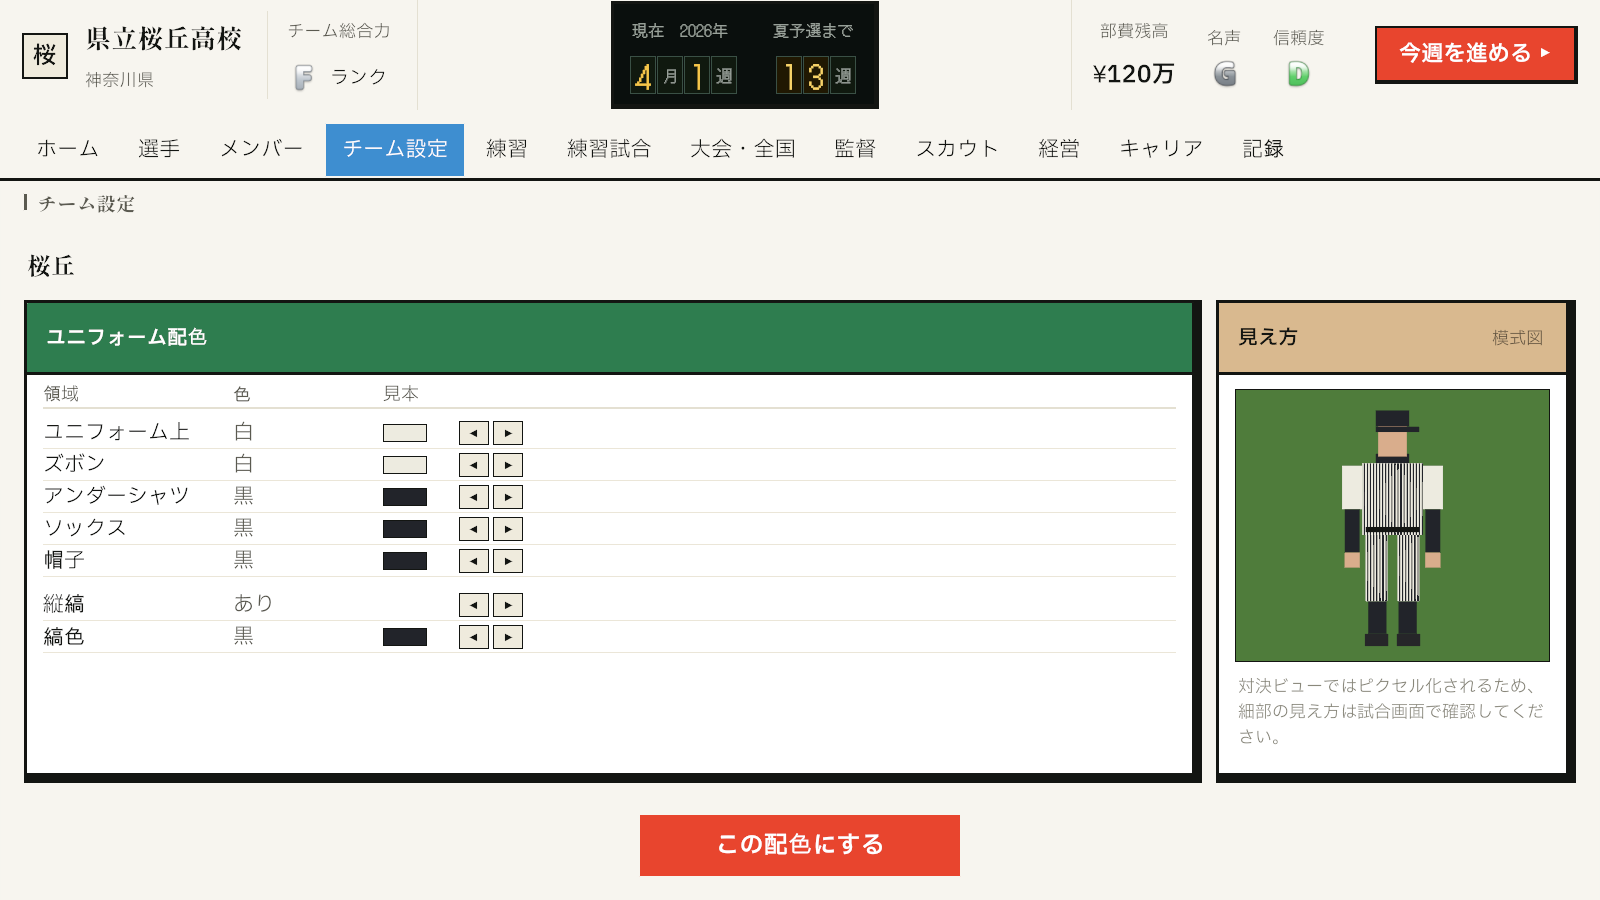
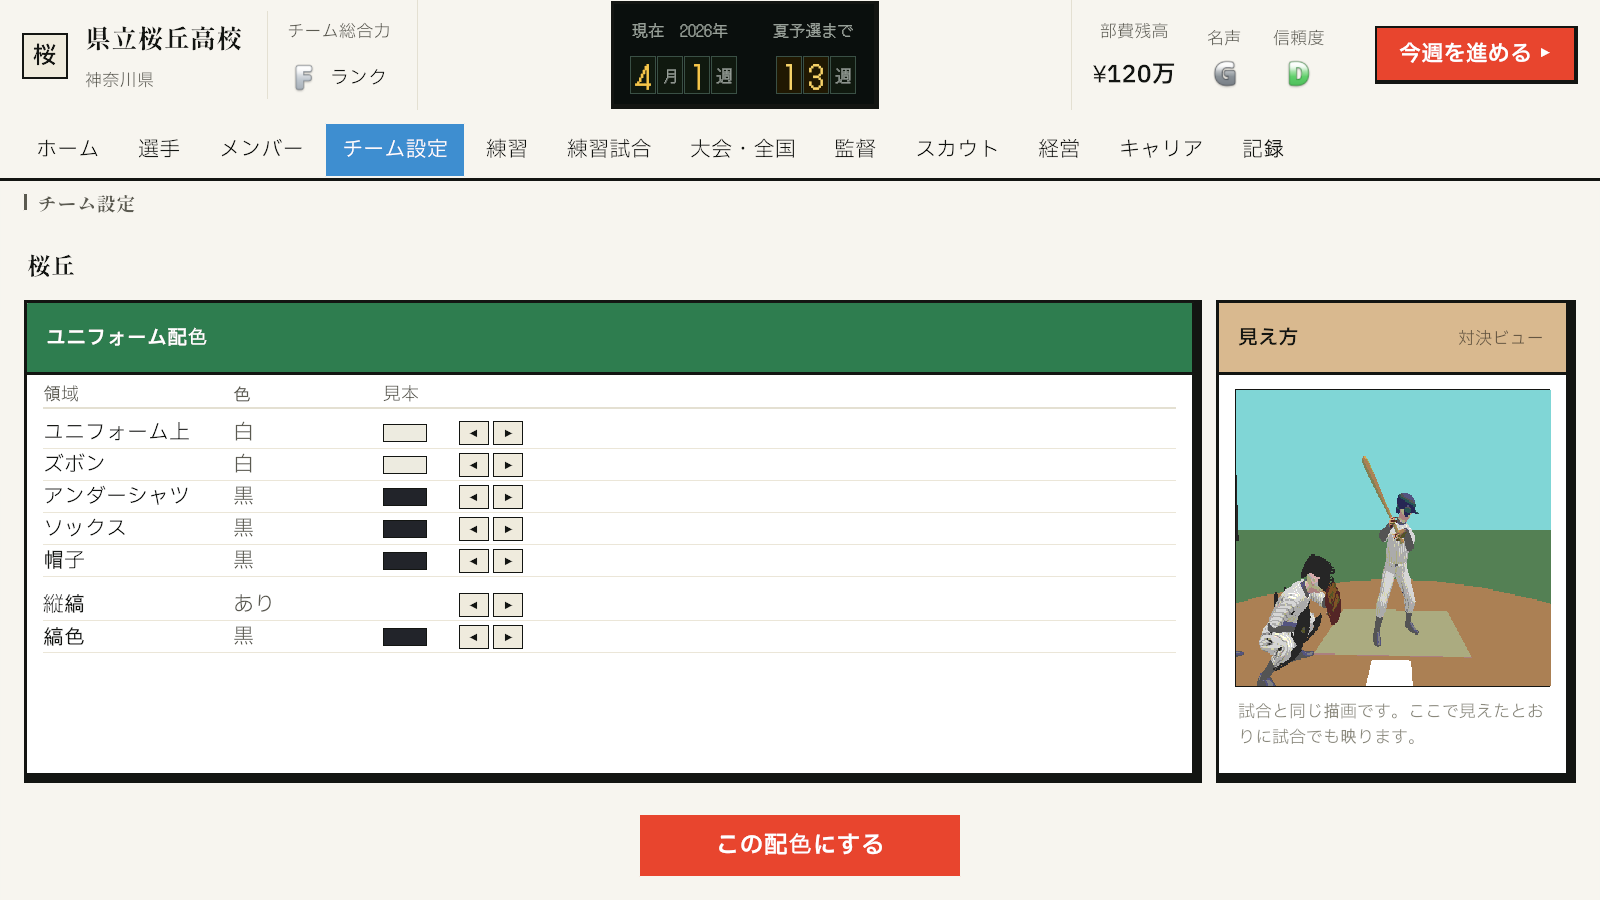
チーム設定のプレビューを実物（対決ビュー）にする
模式図では「どの色がどこに出るか」しか分からず、配色の可否は結局ピクセル化後の絵で決まる。
設定画面でも試合と同じ描画を見せる（監督指摘）。

- DuelStageRig.FramePreview を新設。ApplyCalibration のカメラは「マウンド後方から本塁を見る」
  構図に固定で**横へ回れない**（YawDeg は x をずらすだけ）ため、打者を正面から見る別構図が要る。
  対決ビュー本体はこれを呼ばない＝§7-1 の構図は不変
- DuelViewElement.BindRig で結線をまとめる（Rig と Bind を別々に触らせない）
- 画面を離れるとき rig を必ず Dispose する。HideAndDontSave の残骸は Play 終了・ドメインリロードを
  跨いで生き残り、次に作ったステージと二重に映る（既知の実害）。実測で残骸0を確認した
- 守備側・攻撃側の両方へ同じ配色を流す＝どの選手が映っても自校の色になる（捕手も一緒に確認できる）
- 模式図（UniformPreviewElement）は**3D素体が無い環境のフォールバック**として残す。
  どちらを出しているかは見出しと注記で明示する

打者ヘルメットは暗紺固定（チーム色にすると髪に見える, design-18 §3.3）なので、帽子色は
打者でなく捕手のヘルメットに出る。プレビューに捕手が入っているのはそれも見えるようにするため。

engine は不変。

Changed region(s): [[0.75, 0.4356, 0.9688, 0.84], [0.9062, 0.3733, 0.9688, 0.4044]]

diff --git a/Assets/KokoSim/Team/TeamSettingController.cs b/Assets/KokoSim/Team/TeamSettingController.cs
@@ -38,9 +38,20 @@ namespace KokoSim.Unity.Squad
         /// <summary>縞の本数[本/m]。実物のピンストライプは間隔2.5cm＝40本/m（design-18 §3.5.3）。</summary>
         private const double StripeFreq = 40.0;
 
+        // ---- プレビュー（実物優先・模式図フォールバック） ----
+        // 配色は最終的に対決ビューの絵で決まるので、見せるのは実物の方が正しい（2026-07-29 監督指摘）。
+        // 3Dアセットが無い環境（購入素体・クリップ未導入）では組めないので、そのときだけ模式図へ落ちる。
+
+        /// <summary>打者を正面から見る構図。打者は (BatterX,0,BatterZ) に yaw90＝+X を向いて立つ。</summary>
+        private static readonly Vector3 PreviewCamPos = new(1.9f, 1.20f, 0.10f);
+        private static readonly Vector3 PreviewLookAt = new(-0.9f, 1.05f, 0f);
+        private const float PreviewFovDeg = 48f;   // 構えたバットの先まで入る画角（実測で決めた）
+
         private VisualElement _root;
         private VisualElement _rowHost;
-        private UniformPreviewElement _preview;
+        private UniformPreviewElement _preview;      // 模式図（フォールバック）
+        private Match.DuelStageRig _rig;             // 実物（優先）
+        private Match.DuelViewElement _rigView;
         private Label _changed;
 
         private TeamColors _draft;
@@ -52,14 +63,7 @@ namespace KokoSim.Unity.Squad
             _rowHost = _root.Q<VisualElement>("ts-rows");
             _changed = _root.Q<Label>("ts-changed");
 
-            var previewHost = _root.Q<VisualElement>("ts-preview");
-            if (previewHost != null)
-            {
-                _preview = new UniformPreviewElement();
-                _preview.style.flexGrow = 1f;
-                previewHost.Clear();
-                previewHost.Add(_preview);
-            }
+            BuildPreview(_root.Q<VisualElement>("ts-preview"));
 
             var own = _root.Q<Label>("ts-own");
             if (own != null) own.text = NationService.ManagerSchoolName;
@@ -82,6 +86,62 @@ namespace KokoSim.Unity.Squad
             Render();
         }
 
+        // ---- プレビュー ---------------------------------------------------------
+
+        /// <summary>
+        /// 実物（対決ビューと同じ <see cref="Match.DuelStageRig"/>）を組み、打者を正面から見る構図にする。
+        /// 組めなければ模式図へ落ちる。<b>rig は画面を離れるときに必ず捨てる</b>＝
+        /// HideAndDontSave の残骸がPlay終了・ドメインリロードを跨いで生き残るため。
+        /// </summary>
+        private void BuildPreview(VisualElement host)
+        {
+            if (host == null) return;
+            host.Clear();
+
+            _rig = new Match.DuelStageRig();
+            if (_rig.Available)
+            {
+                _rig.FramePreview(PreviewCamPos, PreviewLookAt, PreviewFovDeg);
+                _rigView = new Match.DuelViewElement();
+                _rigView.BindRig(_rig);
+                host.Add(_rigView);
+                SetPreviewLabels("対決ビュー",
+                    "試合と同じ描画です。ここで見えたとおりに試合でも映ります。");
+                return;
+            }
+
+            _rig.Dispose();
+            _rig = null;
+            Debug.Log("[チーム設定] 対決ビューの素体が使えないので模式図でプレビューする");
+            _preview = new UniformPreviewElement();
+            _preview.style.flexGrow = 1f;
+            host.Add(_preview);
+            SetPreviewLabels("模式図",
+                "3Dの素体が読み込めないため模式図で代用しています。試合では見え方が異なります。");
+        }
+
+        private void SetPreviewLabels(string kind, string note)
+        {
+            var k = _root?.Q<Label>("ts-preview-kind");
+            if (k != null) k.text = kind;
+            var n = _root?.Q<Label>("ts-note");
+            if (n != null) n.text = note;
+        }
+
+        private void OnDisable()
+        {
+            _rig?.Dispose();
+            _rig = null;
+            _rigView = null;
+            _preview = null;
+        }
+
+        /// <summary>実物プレビューはポーズを進める（止めるとTポーズ直後の硬い絵で固まる）。</summary>
+        private void Update()
+        {
+            if (_rig != null && _rig.Available) _rig.Tick(Time.deltaTime);
+        }
+
         // ---- 描画 --------------------------------------------------------------
 
         private void Render()
@@ -90,6 +150,8 @@ namespace KokoSim.Unity.Squad
             if (_rowHost == null || _draft == null) return;
             _rowHost.Clear();
             foreach (var r in Rows) _rowHost.Add(BuildRow(r.Slot, r.Label, r.GroupTop));
+            // 実物は守備側・攻撃側の両方へ同じ配色を流す（どの選手が映っても自校の色になる）
+            _rig?.SetTeamColors(_draft, _draft);
             _preview?.SetColors(_draft);
             if (_changed != null)
                 _changed.text = Equals(_draft, _applied) ? "" : "未確定の変更あり";

diff --git a/Assets/KokoSim/Match/DuelStageRig.cs b/Assets/KokoSim/Match/DuelStageRig.cs
@@ -786,6 +786,23 @@ namespace KokoSim.Unity.Match
         }
 
         /// <summary>水平視野角を基準構図（垂直2.9°@16:9）で固定し、現RT縦横比から垂直FOVを逆算する。</summary>
+        /// <summary>
+        /// 【プレビュー用】カメラを任意の位置・注視点へ置く（ステージ原点ローカル・m）。
+        ///
+        /// <see cref="ApplyCalibration"/> のカメラは「マウンド後方から本塁を見る」構図に固定されていて
+        /// <b>横へ回れない</b>（YawDeg は x をずらすだけ）。打者を正面から見るような別構図が要る
+        /// チーム設定画面のために、構図だけを直接指定できる入口を分けてある。
+        /// 対決ビュー本体はこれを呼ばない＝§7-1 の構図は不変。
+        /// </summary>
+        public void FramePreview(Vector3 camLocalPos, Vector3 lookLocalPos, float fovDeg)
+        {
+            if (_camera == null) return;
+            _camera.transform.localPosition = camLocalPos;
+            _camera.transform.LookAt(_root.transform.position + lookLocalPos);
+            _fovBaseDeg = fovDeg;
+            ApplyFov();
+        }
+
         private void ApplyFov()
         {
             float halfH = Mathf.Tan(_fovBaseDeg * 0.5f * Mathf.Deg2Rad) * (16f / 9f);

diff --git a/Assets/KokoSim/Match/DuelViewElement.cs b/Assets/KokoSim/Match/DuelViewElement.cs
@@ -30,6 +30,17 @@ namespace KokoSim.Unity.Match
             Snap();
         }
 
+        /// <summary>
+        /// リグを結線して表示する（適応リサイズ込み）。試合以外の用途（チーム設定のプレビュー等）が
+        /// <see cref="Rig"/> と <see cref="Bind"/> を別々に触らずに済むようにまとめてある。
+        /// </summary>
+        public void BindRig(DuelStageRig rig)
+        {
+            Rig = rig;
+            style.flexGrow = 1f;
+            Bind(rig != null ? rig.Target : null);
+        }
+
         private void OnParentGeometry(GeometryChangedEvent _) => Snap();
 
         internal void Snap()
